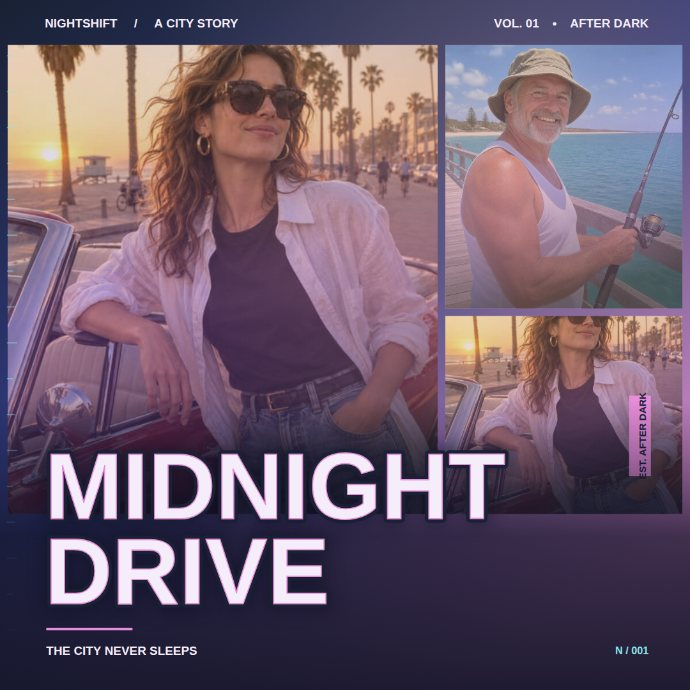
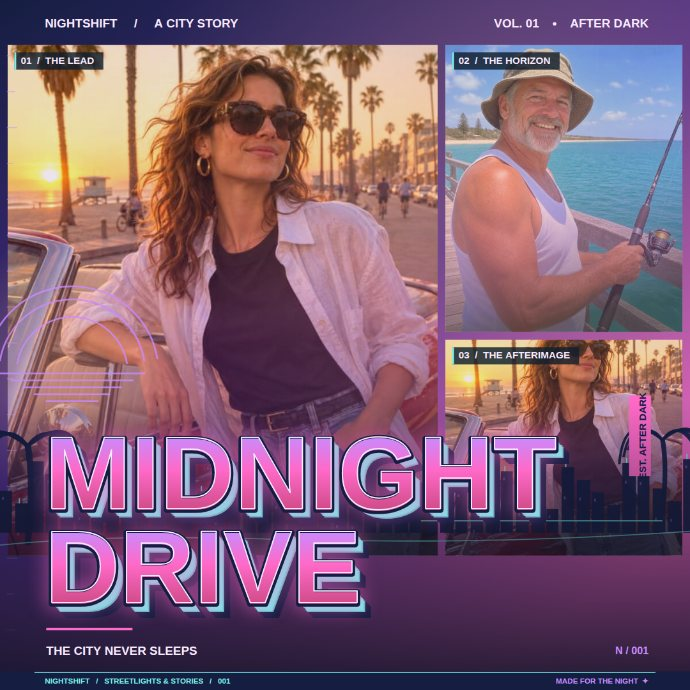
Add neon-dimensional cover art and procedural nightscape

diff --git a/app/src/art.js b/app/src/art.js
@@ -1,8 +1,8 @@
 // Original editorial cover renderer. Every shape, panel, grade and letter is drawn locally to the export canvas.
 const STORIES = {
-  sundown: { ink: '#172334', coral: '#ff735b', glow: '#ffbd81', cream: '#fff0d9', dusk: '#543d68', wash: 'rgba(255,89,72,.24)' },
-  electric: { ink: '#192133', coral: '#e78dd9', glow: '#8be6ec', cream: '#f6edfa', dusk: '#333d87', wash: 'rgba(138,74,207,.28)' },
-  golden: { ink: '#222c34', coral: '#e9ae66', glow: '#f8d7a0', cream: '#fff3dc', dusk: '#647888', wash: 'rgba(192,108,44,.24)' },
+  sundown: { ink: '#142338', coral: '#ff654f', glow: '#ffb975', cyan: '#64e8e5', cream: '#fff2dc', dusk: '#63336d', wash: 'rgba(255,74,62,.16)' },
+  electric: { ink: '#151e41', coral: '#ff69c8', glow: '#c88bff', cyan: '#79f0ec', cream: '#f9e9ff', dusk: '#522d91', wash: 'rgba(165,57,216,.18)' },
+  golden: { ink: '#203044', coral: '#f6a14b', glow: '#ffe08d', cyan: '#8ae9dc', cream: '#fff3dc', dusk: '#59758f', wash: 'rgba(219,113,43,.17)' },
 };
 
 function rect(ctx, x, y, w, h, color) { ctx.fillStyle = color; ctx.fillRect(x, y, w, h); }
@@ -20,7 +20,9 @@ function photoInFrame(ctx, frame, image, placement, tint, center = 0.5, vertical
     const scale = Math.max(w / sw, h / sh) * placement.zoom;
     const iw = sw * scale, ih = sh * scale;
     const spareX = Math.max(0, iw - w), spareY = Math.max(0, ih - h);
+    ctx.filter = 'saturate(1.28) contrast(1.12)';
     ctx.drawImage(image, x - spareX * (center + placement.x / 200), y - spareY * (vertical + placement.y / 200), iw, ih);
+    ctx.filter = 'none';
   }
   const grade = ctx.createLinearGradient(x, y, x + w * .25, y + h);
   grade.addColorStop(0, 'rgba(29,30,58,.08)'); grade.addColorStop(.55, tint); grade.addColorStop(1, 'rgba(20,17,43,.66)');
@@ -38,27 +40,101 @@ function lightLeaks(ctx, w, h, colors) {
   }
   ctx.restore();
 }
+// Vector-only sunset, light trails and palm silhouettes: no borrowed logos, fonts or artwork.
+function illustratedNightscape(ctx, w, h, frames, c) {
+  ctx.save();
+  const sunX = frames.hero.x + frames.hero.w * .15, sunY = h * .54, r = Math.min(h * .11, frames.hero.w * .17);
+  const halo = ctx.createRadialGradient(sunX, sunY, r * .28, sunX, sunY, r * 1.9);
+  halo.addColorStop(0, 'rgba(255,198,108,.28)'); halo.addColorStop(1, 'rgba(255,198,108,0)');
+  rect(ctx, sunX - 2 * r, sunY - 2 * r, 4 * r, 4 * r, halo);
+  ctx.strokeStyle = c.glow; ctx.lineWidth = 3; ctx.globalAlpha = .8;
+  for (const radius of [r * .76, r, r * 1.18]) {
+    ctx.beginPath(); ctx.arc(sunX, sunY, radius, Math.PI * 1.05, Math.PI * 1.95); ctx.stroke();
+  }
+  for (let i = 0; i < 5; i++) rect(ctx, sunX - r * (1 - i * .16), sunY + i * 12, 2 * r * (1 - i * .16), 3, c.glow);
+  ctx.globalAlpha = .95;
+  const base = h * .772, step = Math.max(12, w * .022);
+  for (let i = 0, x = 0; x < w; i++, x += step) {
+    const height = 36 + ((i * 73 + 37) % 95);
+    const building = step * (.78 + (i % 3) * .05);
+    rect(ctx, x, base - height, building, height, c.ink);
+    if (i % 4 === 1) { ctx.fillStyle = c.cyan; ctx.fillRect(x + building * .28, base - height - 9, 2, 9); }
+    ctx.globalAlpha = .35;
+    for (let floor = 0; floor < 3; floor++) {
+      if ((i + floor) % 3 === 0) rect(ctx, x + building * .18, base - height + 11 + floor * 20, 3, 5, c.glow);
+    }
+    ctx.globalAlpha = .95;
+  }
+  // Two small palms frame the artificial skyline; never cover the portrait's eyes.
+  for (const [px, py, scale] of [[w * .04, h * .69, 1], [w * .96, h * .67, .75]]) {
+    ctx.save(); ctx.translate(px, py); ctx.scale(scale, scale);
+    ctx.strokeStyle = c.ink; ctx.lineWidth = 11; ctx.beginPath(); ctx.moveTo(0, h * .1); ctx.quadraticCurveTo(12, 8, 0, -54); ctx.stroke();
+    ctx.lineWidth = 6;
+    for (const sign of [-1, 1]) for (let i = 0; i < 4; i++) {
+      ctx.beginPath(); ctx.moveTo(0, -52); ctx.quadraticCurveTo(sign * (35 + i * 18), -99 - i * 8, sign * (70 + i * 10), -44 + i * 16); ctx.stroke();
+    }
+    ctx.restore();
+  }
+  ctx.globalAlpha = .8; ctx.strokeStyle = c.cyan; ctx.lineWidth = 2;
+  ctx.beginPath(); ctx.moveTo(0, h * .79); ctx.bezierCurveTo(w * .3, h * .76, w * .48, h * .805, w, h * .77); ctx.stroke();
+  ctx.restore();
+}
+function frameAnnotations(ctx, frames, w, h, c) {
+  ctx.save(); ctx.textAlign = 'left'; ctx.font = `800 ${Math.min(17, w * .017)}px Arial, sans-serif`; ctx.textBaseline = 'middle';
+  const labels = { hero: '01  /  THE LEAD', scene: '02  /  THE HORIZON', detail: '03  /  THE AFTERIMAGE' };
+  for (const [key, frame] of Object.entries(frames)) {
+    const x = frame.x + 12, y = frame.y + 13;
+    const label = labels[key], badge = Math.min(frame.w - 22, ctx.measureText(label).width + 27);
+    rect(ctx, x, y, badge, 30, 'rgba(16,30,45,.82)');
+    rect(ctx, x, y, 3, 30, c.cyan);
+    ctx.fillStyle = c.cream; ctx.fillText(label, x + 11, y + 15, badge - 15);
+  }
+  rect(ctx, w * .61, h * .754, w * .35, 2, c.cyan);
+  ctx.restore();
+}
+function microtextStrip(ctx, w, h, c) {
+  ctx.save();
+  rect(ctx, 0, h * .973, w, h * .027, c.ink);
+  rect(ctx, w * .05, h * .974, w * .9, 1, c.cyan);
+  ctx.fillStyle = c.cyan; ctx.font = `700 ${Math.min(13, w * .012)}px Arial, sans-serif`;
+  ctx.textAlign = 'left'; ctx.textBaseline = 'middle';
+  ctx.fillText('NIGHTSHIFT   /   STREETLIGHTS & STORIES   /   001', w * .065, h * .988, w * .72);
+  ctx.textAlign = 'right'; ctx.fillStyle = c.glow; ctx.fillText('MADE FOR THE NIGHT  ✦', w * .94, h * .988);
+  ctx.restore();
+}
 function titleBlock(ctx, caption, edition, w, h, c) {
   const title = (caption.trim() || 'AFTER HOURS').toUpperCase();
   const words = title.split(/\s+/);
   let lines = [title];
-  ctx.font = `900 ${Math.min(166, w * .135)}px Arial Black, Impact, sans-serif`;
-  if (words.length > 1 && ctx.measureText(title).width > w * .68) {
+  ctx.font = `900 ${Math.min(230, w * .17)}px Arial Black, Impact, sans-serif`;
+  if (w <= h * 1.25 && words.length > 1 && ctx.measureText(title).width > w * .76) {
     const mid = Math.ceil(words.length / 2); lines = [words.slice(0, mid).join(' '), words.slice(mid).join(' ')];
   }
   // Two-line title is intentionally stacked like a print cover, not a logo or a game wordmark.
-  const maxWidth = w * .88;
-  let size = Math.min(166, w * .135, h * (lines.length === 1 ? .17 : .135));
+  const maxWidth = w * .87;
+  let size = Math.min(230, w * .17, h * (lines.length === 1 ? .2 : .15));
   for (const line of lines) size = Math.min(size, fitText(ctx, line, maxWidth, size));
   ctx.save(); ctx.textAlign = 'left'; ctx.textBaseline = 'alphabetic'; ctx.lineJoin = 'round';
   ctx.font = `900 ${size}px Arial Black, Impact, sans-serif`;
   const left = w * .065, bottom = h * .875;
   lines.forEach((line, i) => {
     const yy = bottom - (lines.length - 1 - i) * size * .91;
-    ctx.shadowColor = 'rgba(11,12,33,.72)'; ctx.shadowBlur = 28;
-    ctx.lineWidth = Math.max(7, size * .085); ctx.strokeStyle = c.ink; ctx.strokeText(line, left, yy, maxWidth);
-    ctx.shadowBlur = 0; ctx.fillStyle = c.cream; ctx.fillText(line, left, yy, maxWidth);
-    ctx.lineWidth = 2; ctx.strokeStyle = c.coral; ctx.strokeText(line, left, yy, maxWidth);
+    ctx.save();
+    // A cyan-to-ink physical extrusion, a thin neon rim, then molten-metal letter faces.
+    for (let depth = 12; depth >= 1; depth--) {
+      ctx.fillStyle = depth > 7 ? c.ink : c.cyan;
+      ctx.globalAlpha = depth > 7 ? .95 : .76;
+      ctx.fillText(line, left + depth * 2, yy + depth * 2, maxWidth);
+    }
+    ctx.globalAlpha = 1;
+    ctx.shadowColor = c.coral; ctx.shadowBlur = size * .17;
+    ctx.lineWidth = Math.max(6, size * .06); ctx.strokeStyle = c.ink; ctx.strokeText(line, left, yy, maxWidth);
+    ctx.shadowBlur = 0;
+    const metal = ctx.createLinearGradient(0, yy - size, 0, yy + 12);
+    metal.addColorStop(0, c.cream); metal.addColorStop(.27, c.glow); metal.addColorStop(.58, c.coral); metal.addColorStop(1, '#c8467d');
+    ctx.fillStyle = metal; ctx.fillText(line, left, yy, maxWidth);
+    ctx.lineWidth = Math.max(1.5, size * .012); ctx.strokeStyle = c.cream; ctx.strokeText(line, left, yy - 2, maxWidth);
+    ctx.restore();
   });
   ctx.restore();
   rect(ctx, w * .067, h * .91, Math.min(w * .15, 150), 4, c.coral);
@@ -69,7 +145,7 @@ function titleBlock(ctx, caption, edition, w, h, c) {
   ctx.fillText('N / 001', w * .94, h * .944);
 }
 function coverFrames(w, h, layout) {
-  const gutter = Math.max(9, w * .011), top = h * .065, end = h * .745;
+  const gutter = Math.max(9, w * .011), top = h * .065, end = h * .805;
   if (layout === 'cinema') return {
     hero: { x: gutter, y: top, w: w * .75 - gutter * 2, h: end - top },
     scene: { x: w * .75, y: top, w: w * .25 - gutter, h: (end - top) * .56 - gutter / 2 },
@@ -106,7 +182,9 @@ export function drawCover(canvas, state) {
     photoInFrame(ctx, frames[key], image, state.positions[key], c.wash, key === 'hero' ? .48 : .5, topBias);
   }
   lightLeaks(ctx, w, h, c);
-  // The small numerals, angled ticket and hairlines are our editorial frame language.
+  illustratedNightscape(ctx, w, h, frames, c);
+  frameAnnotations(ctx, frames, w, h, c);
+  // A compact original masthead keeps the poster readable at thumbnail scale.
   ctx.save(); ctx.fillStyle = c.cream; ctx.textAlign = 'left'; ctx.font = `800 ${Math.min(21, w * .018)}px Arial, sans-serif`;
   ctx.textBaseline = 'middle'; ctx.fillText('NIGHTSHIFT     /     A CITY STORY', w * .065, h * .035);
   ctx.textAlign = 'right'; ctx.fillText('VOL. 01    •    AFTER DARK', w * .94, h * .035);
@@ -116,8 +194,9 @@ export function drawCover(canvas, state) {
   ctx.fillStyle = c.ink; ctx.font = '800 17px Arial, sans-serif'; ctx.textAlign = 'center'; ctx.fillText('EST. AFTER DARK', 70, 3);
   ctx.restore();
   const fade = ctx.createLinearGradient(0, h * .58, 0, h);
-  fade.addColorStop(0, 'rgba(18,20,39,0)'); fade.addColorStop(.47, 'rgba(18,20,39,.78)'); fade.addColorStop(1, 'rgba(18,20,39,.94)');
+  fade.addColorStop(0, 'rgba(18,20,39,0)'); fade.addColorStop(.47, 'rgba(18,20,39,.53)'); fade.addColorStop(1, 'rgba(18,20,39,.94)');
   rect(ctx, 0, h * .58, w, h * .42, fade);
   titleBlock(ctx, state.caption, state.edition, w, h, c);
+  microtextStrip(ctx, w, h, c);
   ctx.setTransform(1, 0, 0, 1, 0, 0);
 }
